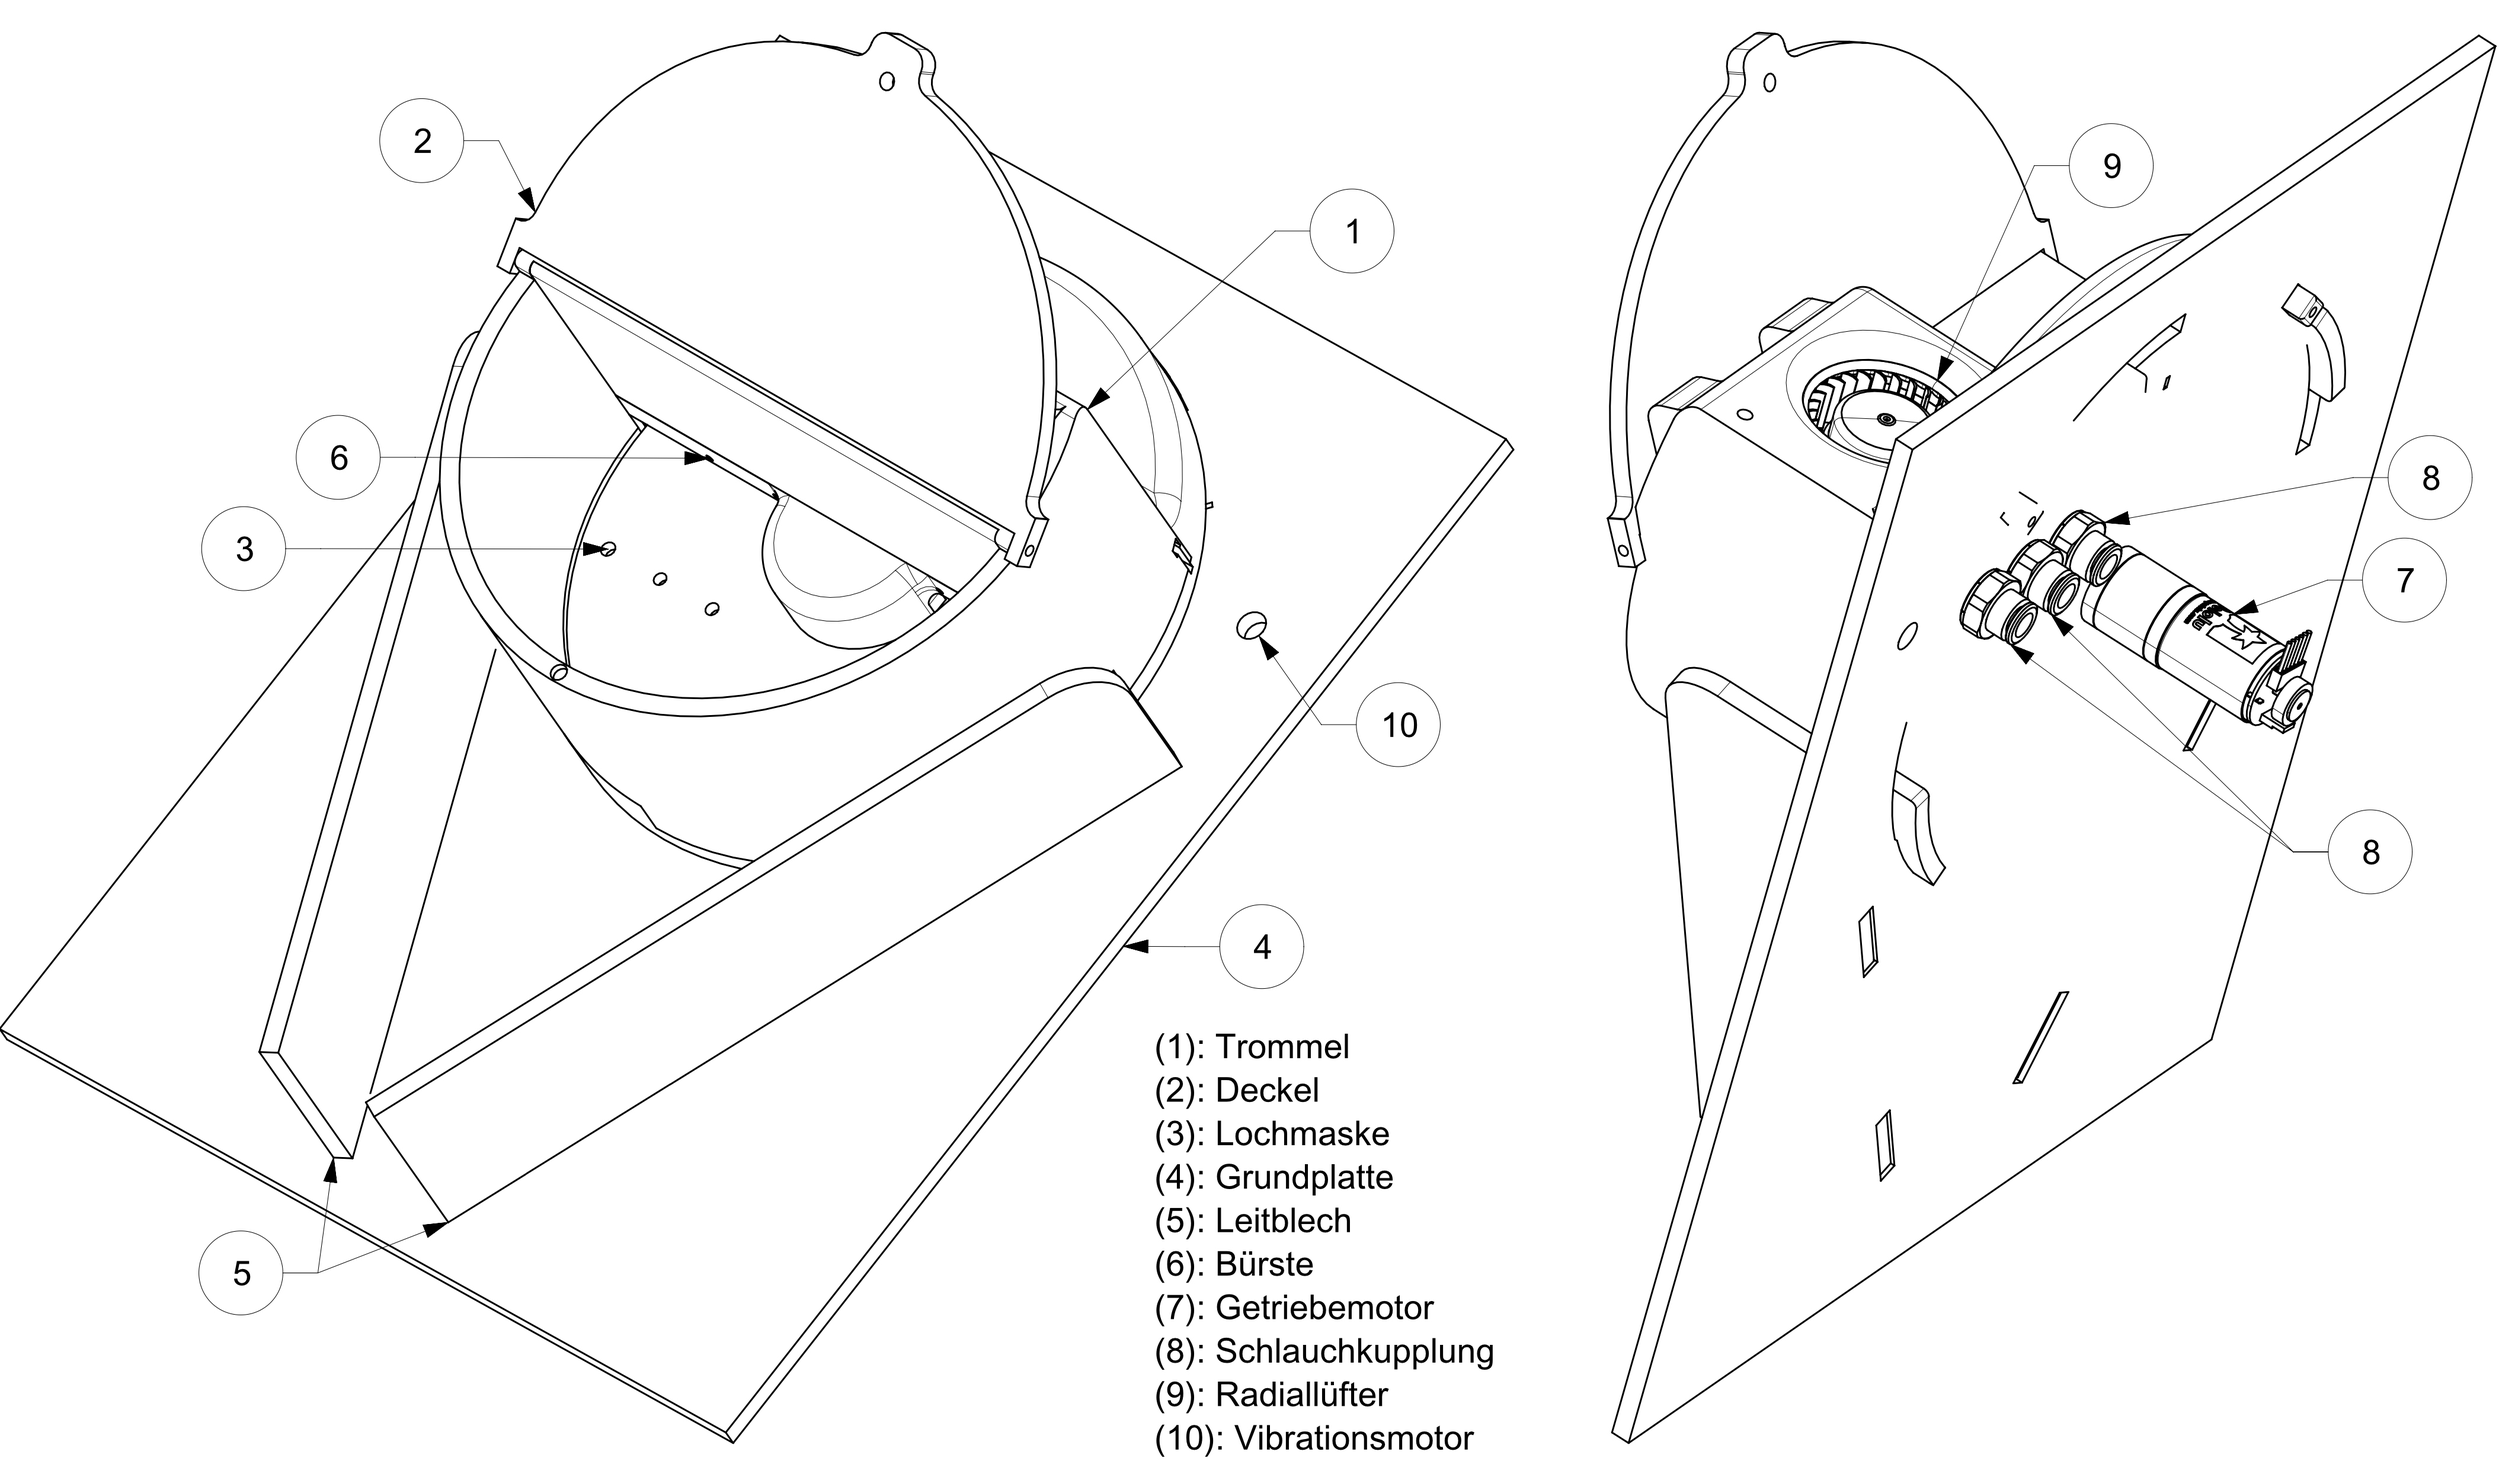
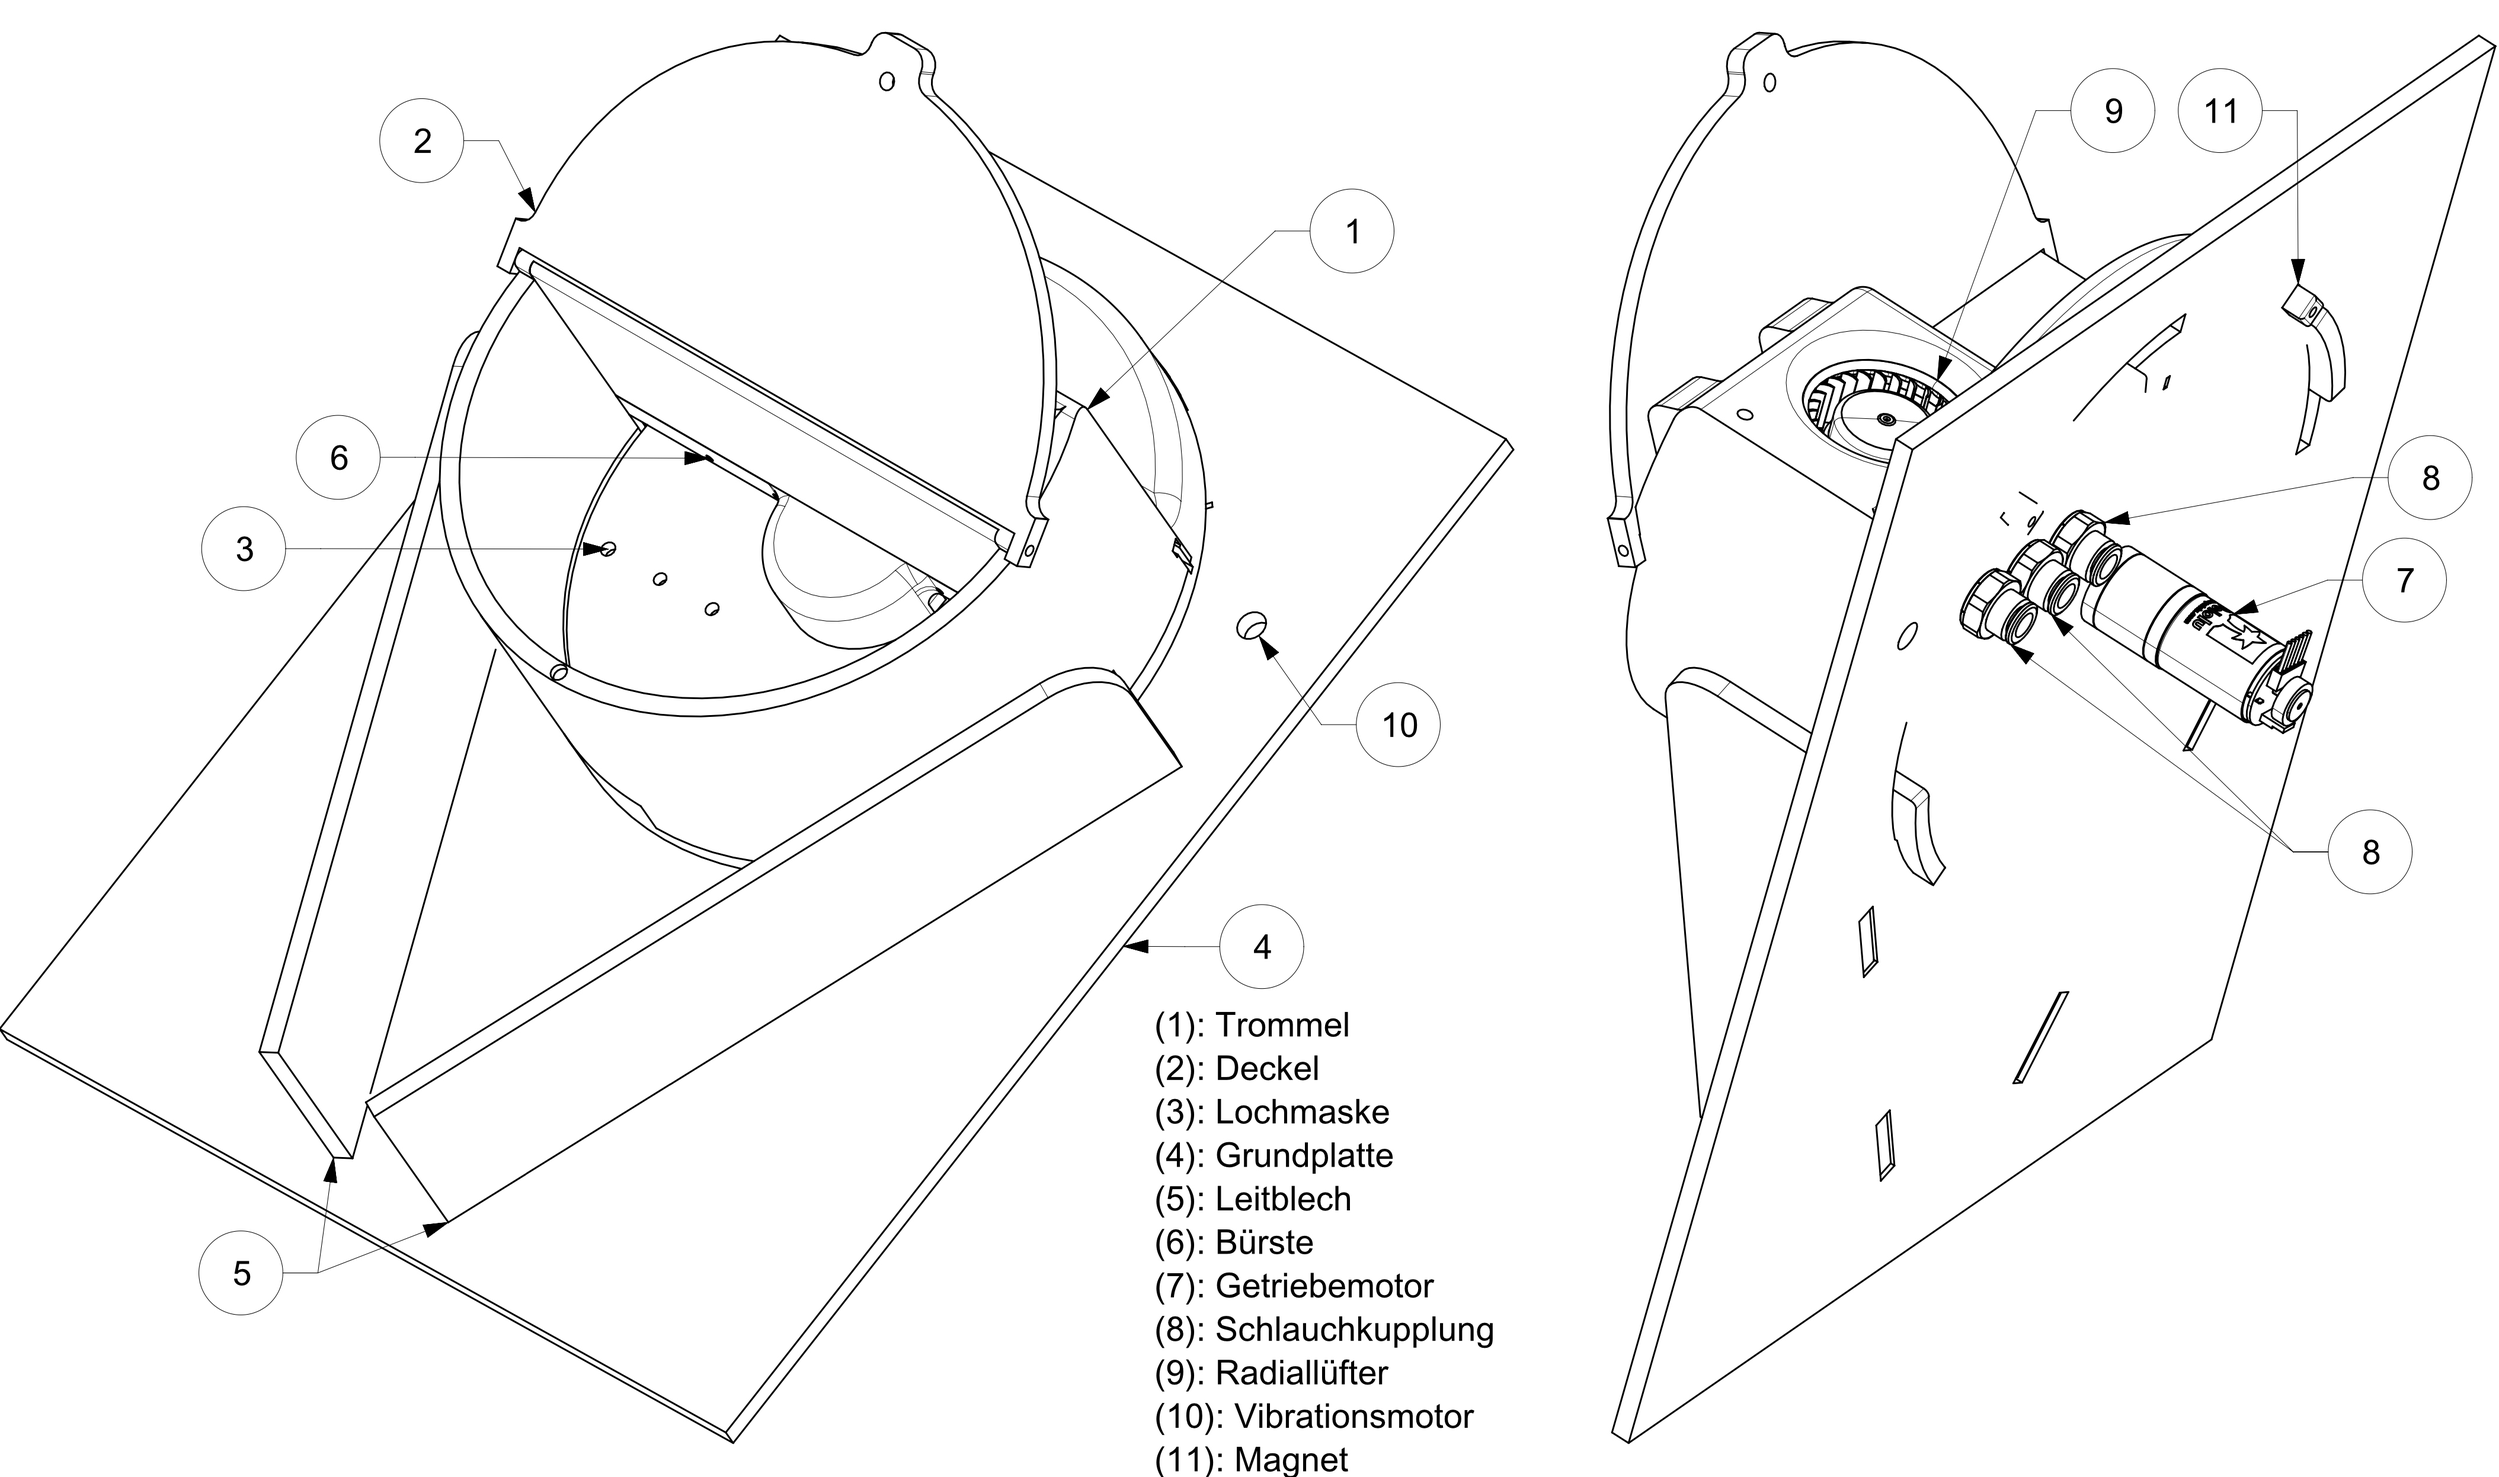
- edited subsections Vereinzelung and Setzeinheit - edited pictures of these subsections

Changed region(s): [[0.466, 0.6795, 0.6213, 1.0]]

diff --git a/Kapitel/6_Umsetzung/6.3_Vereinzelung.tex b/Kapitel/6_Umsetzung/6.3_Vereinzelung.tex
@@ -1,44 +1,56 @@
 \subsection{Vereinzelung}
-sdffd
+Die Umsetzung der Vereinzelung orientiert sich stark am realisierten Funktionsnachweis. Der grundlegende Aufbau wurde beibehalten. Hinzu kommen einige Erweiterungen um die Zuverlässigkeit zu steigern sowie Verbesserungen in der Benutzerfreundlichkeit.
 \newline
 \newline
-\textbf{Aufbau}
+\textbf{Aufbau und Funktion}
 \newline
-
+Die Vereinzelung aus einer Trommel (Punkt. 1 in Abbildung \ref{fig:details_vereinzelung}), worin die NemaCaps eingefüllt werden. Durch die Rotation der Lochmaske (3), welcher durch einen Getriebemotor (7) umgesetzt wird, fallen die NemaCaps in die vorgesehenen Löcher. Überschüssige NemaCaps, werden durch eine Bürste (6) abgestreift. Sobald die vereinzelten NemaCaps bei den Schlauchkupplungen angekommen sind, sollen durch die Schläuche zur Einsetzlokalität fallen. Montiert werden alle Komponenten auf einer Grundplatte (4), wobei diese in ihrer Neigung verstellbar gelagert wird.
 
 	\begin{figure}[H]
 	\includegraphics[scale=0.45]{Illustrationen/6-Umsetzung/details_vereinzelung.jpg}
 	\caption{Detaillierte Übersicht der Vereinzelung}
 	\label{fig:details_vereinzelung}
 	\end{figure}
-asfasdf
-\newline
-\textbf{Funktion}
-\newline
-dfgsdf
-\newline
 \textbf{Abhilfemassnahmen}
 \newline
-sadfsdaf
+Der Funktionsnachweis aus Kapitel \textbf{XY} zeigte auf, dass das Lösen der NemaCaps von der Lochmaske nicht unproblematisch ist. Bei erschwerten Bedingungen wie nassem Pulver kann ein NemaCap an der Lochmaske hängen bleiben. Die Problematik ist bekannt, sodass in der Konstruktion folgende Abhilfemassnahmen umgesetzt wurden, welche die Zuverlässigkeit der Vereinzelung erhöhen sollen:
+\begin{itemize}
+	\item \textbf{Vibrationsmotor:} der Funktionsnachweis zeigte, dass durch leichtes Klopfen an der Einheit hängengebliebene NemaCaps erfolgreich gelöst werden. Somit wird in der Nähe der Schlauchkupplungen ein Vibrationsmotor (Punkt. 10 in Abbildung \ref{fig:details_vereinzelung}) angebracht, welche die Einheit in Vibration bringen soll. Wichtig ist dabei, dass die Grundplatte in eine Richtung federnd gelagert wird, sodass diese auch in Schwingung geraten kann.
+	
+	\item \textbf{Radiallüfter:} Eine weitere Möglichkeit die NemaCaps zu lösen bietet ein gezielter Luftstoss. Daher ist in der Trommel ein Radiallüfter (9) integriert, welcher einen Luftstrom auf die vereinzelten NemaCaps in der Lochmaske richtet. Bei Bedarf werden zusätzliche Löcher an den Schläuchen angebracht, um einen Luftaustritt zu gewährleisten. 
+	
+	\item \textbf{Lochmaske:} Am Funktionsnachweis wurde ersichtlich, wie kritisch die Materialwahl sowie Fertigungsqualität der Lochmaske ist. Die formulierten Punkte zur Steigerung der Zuverlässigkeit sind im Kapitel \textbf{XY} erläutert.
+\end{itemize}
+
+\textbf{Handhabung}
 \newline
-\textbf{Entleeren}
-\newline
+Die Verwendung von frischen NemaCaps und dadurch frischem Pulver trägt zur verbesserten Zuverlässigkeit der Vereinzelung bei. Der benutzerfreundliche Wechsel von NemaCaps ist also ein wichtiges Anliegen und ist in der Konstruktion der Vereinzelung berücksichtigt. So ist die Trommel (Punkt 1 in Abb. \ref{fig:vereinzelung_entleeren}) ist mit einem dreifachen Bajonettverschluss (Detail C, 12) versehen. Mit einer Drehung von 15° kann der Verschluss entriegelt werden (Detail A in Abb. \ref{fig:vereinzelung_entleeren}). Nun kann die Trommel entfernt werden (Detail B). Die verbleibenden NemaCaps (Detail X) fallen nun entlang der schiefen Grundplatte hinunter. Geleitet durch zwei Leitbleche (5) fallen diese in Richtung Detail Y wo sie in einem Behälter sammeln kann. Auch verfügt die Trommel über einen Deckel (2), welcher durch zwei angebrachte Magnete sicher verschlossen wird.
 	\begin{figure}[H]
 	\includegraphics[scale=0.42]{Illustrationen/6-Umsetzung/vereinzelung_entleeren.jpg}
 	\caption{Entleerung der Trommel}
-	\label{fig:details_vereinzelung}
+	\label{fig:vereinzelung_entleeren}
 	\end{figure}
-asdfasdf
-\newline
 \textbf{Lochmaske}
 \newline
-Detektion
+Der Funktionsnachweis hat gezeigt, dass das Scheitern der Vereinzelung meist durch das Hängenbleiben der NemaCaps an der Lochmaske verursacht werden. Die Zuverlässigkeit dieser Funktion hängt direkt von den Eigenschaften der Lochmaske ab, also ist die Materialwahl sowie Fertigungsqualität von diesem Teil entscheidend. 
+\newline
+Folgende Massnahmen werden umgesetzt:
+\begin{itemize}
+	\item \textbf{Materialwahl:} Die Wahl des passenden Materials mit der geringsten Adhäsion wurde mittels praktischen Tests am 26.4.2017 durchgeführt. Dabei wurden Aluminium, Plexiglas und MDF mitdeinander verglichen. Die Tests zeigen, dass Aluminium die geringste Adhäsion gegenüber von NemaCaps aufweist, gefolgt von Plexiglas. Mit MDF wurden die grösste Adhäsion festgestellt, was durch die erhöhte Pulveraufnahme sowie die rauhere Oberfläche zu erklären ist. Primär wird bei der Inbetriebnahme Aluminium verwendet, wobei hier die Reibung zwischen Lochmaske und Grundplatte noch nicht berücksichtigt wurde. So könnte bei zu hoher Reibung auf Plexiglas ausgewichen werden.
+	
+	\item \textbf{Fertigungsqualität:} Die Tests vom 26.4.2017 zeigten auch, dass die Oberflächenrauheit Relevanz hat. Je feiner die Oberfläche der Bohrung (Punkt 13 in Abbildung \ref{fig:detail_lochmaske}), desto geringer ist das Risiko des Hängenbleiben. Somit werden diese Löcher nach der Bohrung zusätzlich mit einer Reibale ausgerieben. Der ideale Durchmesser D1 muss während der Inbetriebnahme erörtert werden.
+	
+	\item \textbf{Fertigungsverfahren:} Gegeben durch den einfachen zweidimensionalen Aufbau wird die Lochmaske mit dem Laser hergsetellt. Als Dicke bietet sich 4mm an, da gerade ein grosses NemaCap Platz findet und ein Weiteres abgestreift wird.
+\end{itemize}
+Desweiteren ist die Lochmaske mit zwei Langlöchern (14) ausgestattet. Diese werden zur Einpassung von Dauermagneten verwendet, welche zur Kalibration der Lochmaske dienen. Konstruktiv ist hinzuzufügen, dass der Abstand B in Abbildung \ref{fig:detail_lochmaske} gegeben ist durch die Dimensionen der Schlauchkupplungen (Punkt 8 in Abb. \ref{fig:details_vereinzelung}).
 	\begin{figure}[H]
 	\includegraphics[scale=0.63]{Illustrationen/6-Umsetzung/detail_lochmaske.jpg}
-	\caption{Entleerung der Trommel}
+	\caption{Grundriss der Lochmaske mit Schnitt}
 	\label{fig:detail_lochmaske}
 	\end{figure}
-jhj
-\newline
 \textbf{Fertigungsverfahren und Materialwahl}
 \newline
+ Die Grundplatte sowie die Lochmaske werden mit dem Laser gefertigt. Dieses Fertigungsverfahren ist optimal für die Herstellung von zweidimensionalen Teilen. Ein Minimum von verschiedenen Blechdicken spart Umrüstungzeiten senkt direkt Kosten. Ein weiterer Vorteil ist, dass ein direkter Export der Fertigungsunterlagen aus dem CAD möglich ist. Für Weitere Komponenten wird die Realisation als Blech bevorzugt.
+\newline
+\newline
+Die Vereinigung von verschiedensten Funktionen in der Trommel (Integralbauweise) führt zu einer komplexeren Geometrie. Fertigungstechnisch sind gewisse Geometrien konventionell nicht herstellbar. Daher bietet sich Rapid Prototyping als Fertigungsverfahren an. Dadurch ergibt sich jedoch eine Einschränkung: Der Aussendurchmesser der Trommel darf maximal 200mm betragen. 

diff --git a/Kapitel/6_Umsetzung/6.4_Setzeinheit.tex b/Kapitel/6_Umsetzung/6.4_Setzeinheit.tex
@@ -109,11 +109,10 @@ Die Spindel wird durch ein Fest- sowie ein Loslager eindeutig gelagert. Das Fest
 \newline
 Zur mechanischen Verbindung zwischen Spindelantrieb und Spindel wird eine drehstarre Kupplung verwendet. Dadurch kann eine winkelgetreue Drehmomentenübertragung gewährleistet werden, was für diese Anwendung essentiell ist. Hierfür wird die Kupplung HELICAL WA 20-8-6 aus Aluminium von Ringspann AG verwendet. Die Wahl eines kleinen Aussendurchmessers (20mm) und eine leichter Werkstoff sind für ein möglichst geringes zusätzliches Trägheitsmoment entscheidend und wurde hier berücksichtigt.
 \subsubsection{Montage}
-Wie schon mehrfach erwähnt werden mehrere verschiedenste Komponenten an Montageplatten montiert. Wie aus Abbildung \ref{fig:setzeinheit} ersichtlich, werden die Montageplatten vertikal angeordnet. Diese Anordnung bildet so das Gerüst für eine funktionierende Setzeinheit. Gefertigt werden diese Montageplatten aus 6mm Aluminumplatten mittels einer Lasermaschine. Mechanisch fixiert werden die Montageplatten durch Aluminium Profile der Firma Kanya AG (weitere Informationen in \textbf{Kap XY}). Diese Konstruktion bringt folgende Vorteile:
+Wie schon mehrfach erwähnt werden mehrere verschiedenste Komponenten an Montageplatten montiert. Wie aus Abbildung \ref{fig:setzeinheit} ersichtlich, werden die Montageplatten vertikal angeordnet. Diese Anordnung bildet so das Gerüst für eine funktionierende Setzeinheit. Wie in Kapitel XY erwähnt, bietet sich die konsequente Fertigung mittels Lasermaschine an. Mechanisch fixiert werden die Montageplatten durch Aluminium Profile der Firma Kanya AG (weitere Informationen in \textbf{Kap XY}), wobei eine Blechdicke von 6mm vorgegeben ist. Diese Konstruktion bringt folgende Vorteile:
 	\begin{itemize}
 	\item Auf unterschiedlichen Ebenen können so Komponenten angeordnet werden. Das Hinzufügen von weiteren Komponenten ist auf einfachste Art realisierbar. Kommt eine Komponente hinzu, wird die benötigte Kontur (z.B. ein Langloch oder Bohrung) vorgesehen und die Komponente ist montierbar.
-	\item Bewusst werden die Montageplatten mit dem Laser gefertigt. Dieses Fertigungsverfahren ist optimal für die Herstellung von zweidimensionalen Teilen. Dabei wird darauf geachtet, dass alle Platten die identische Dicke haben. Dies spart die Umrüstung und senkt somit direkt die Kosten. Ein weiterer Vorteil ist, dass ein direkter Export der Fertigungsunterlagen aus dem CAD möglich ist.
-	\item \ Die Fixierung der Montageplatten durch Aluminium-Profile bringt weitere Flexibilität bei der Montage. Dadurch bleibt die Höhe der einzelnen Platten verstellbar. Auch seitlich können die Platten in eine Richtung verstellt werden.
+	\item Die Fixierung der Montageplatten durch Aluminium-Profile bringt weitere Flexibilität bei der Montage. Dadurch bleibt die Höhe der einzelnen Platten verstellbar. Auch seitlich können die Platten in eine Richtung verstellt werden.
 \end{itemize}
  	\begin{figure}[H]
 	\includegraphics[width=1\textwidth]{Illustrationen/6-Umsetzung/Montageplatten.png}

diff --git a/Kapitel/7_Inbetriebnahme_Kalibration/7.2_Vereinzelung.tex b/Kapitel/7_Inbetriebnahme_Kalibration/7.2_Vereinzelung.tex
@@ -1,1 +1,2 @@
 \subsection{Vereinzelung}
+spiel Pololu motor, Borstenlänge und Reibung erwähnen.
